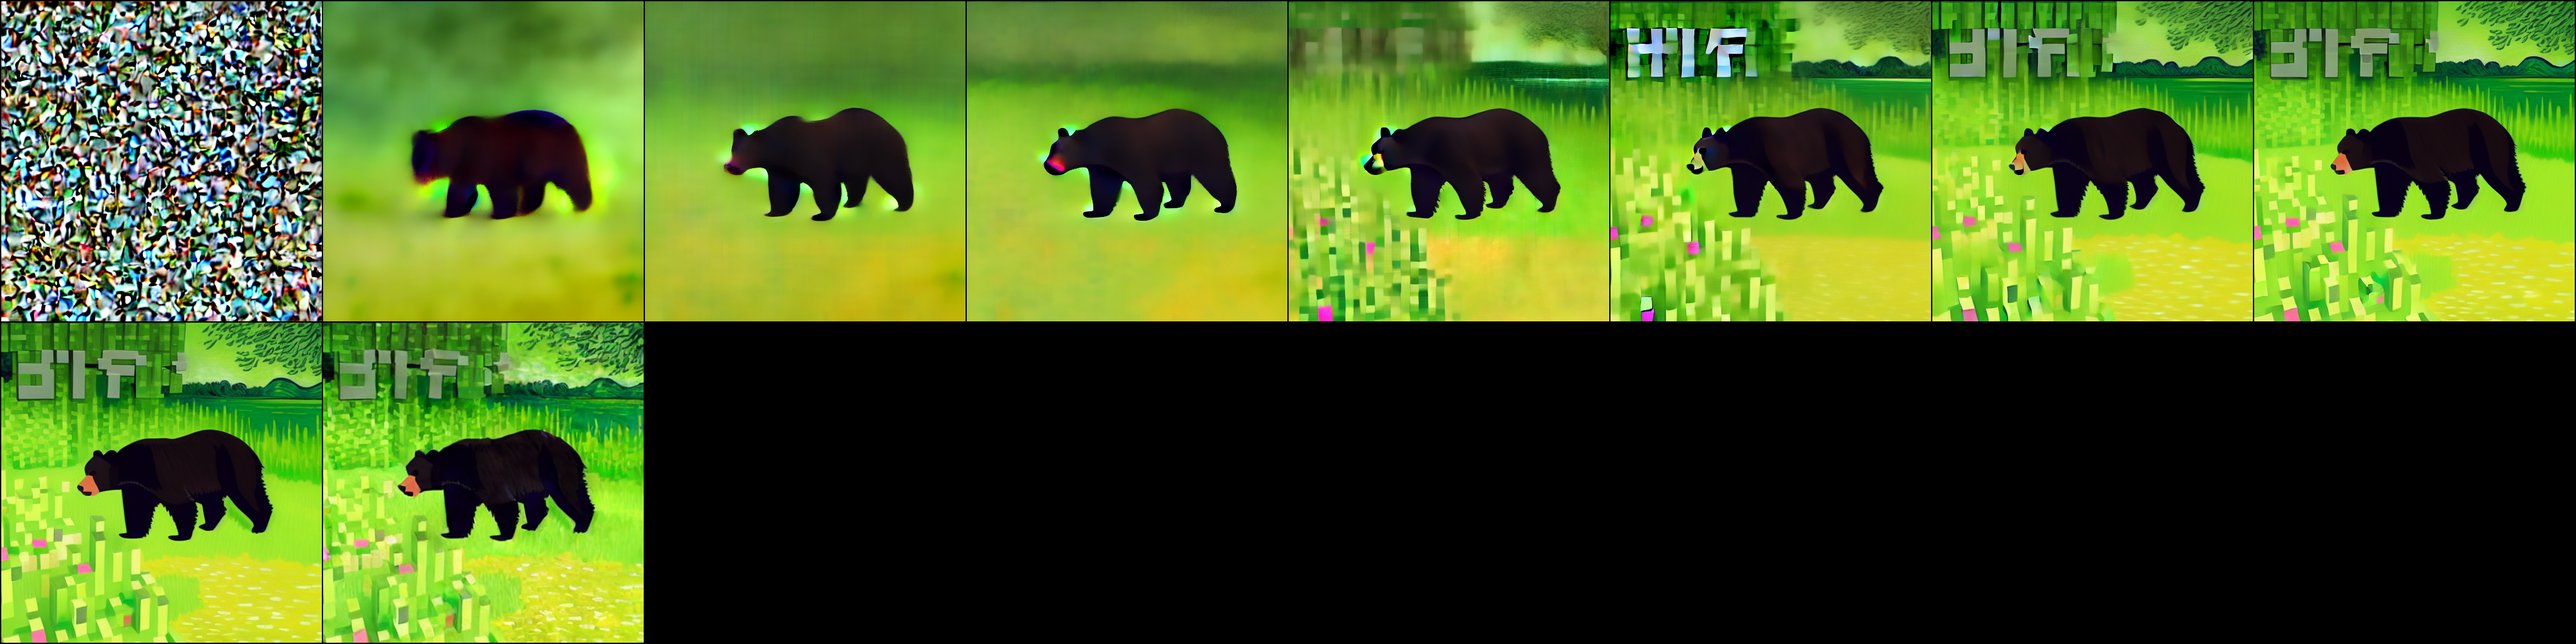
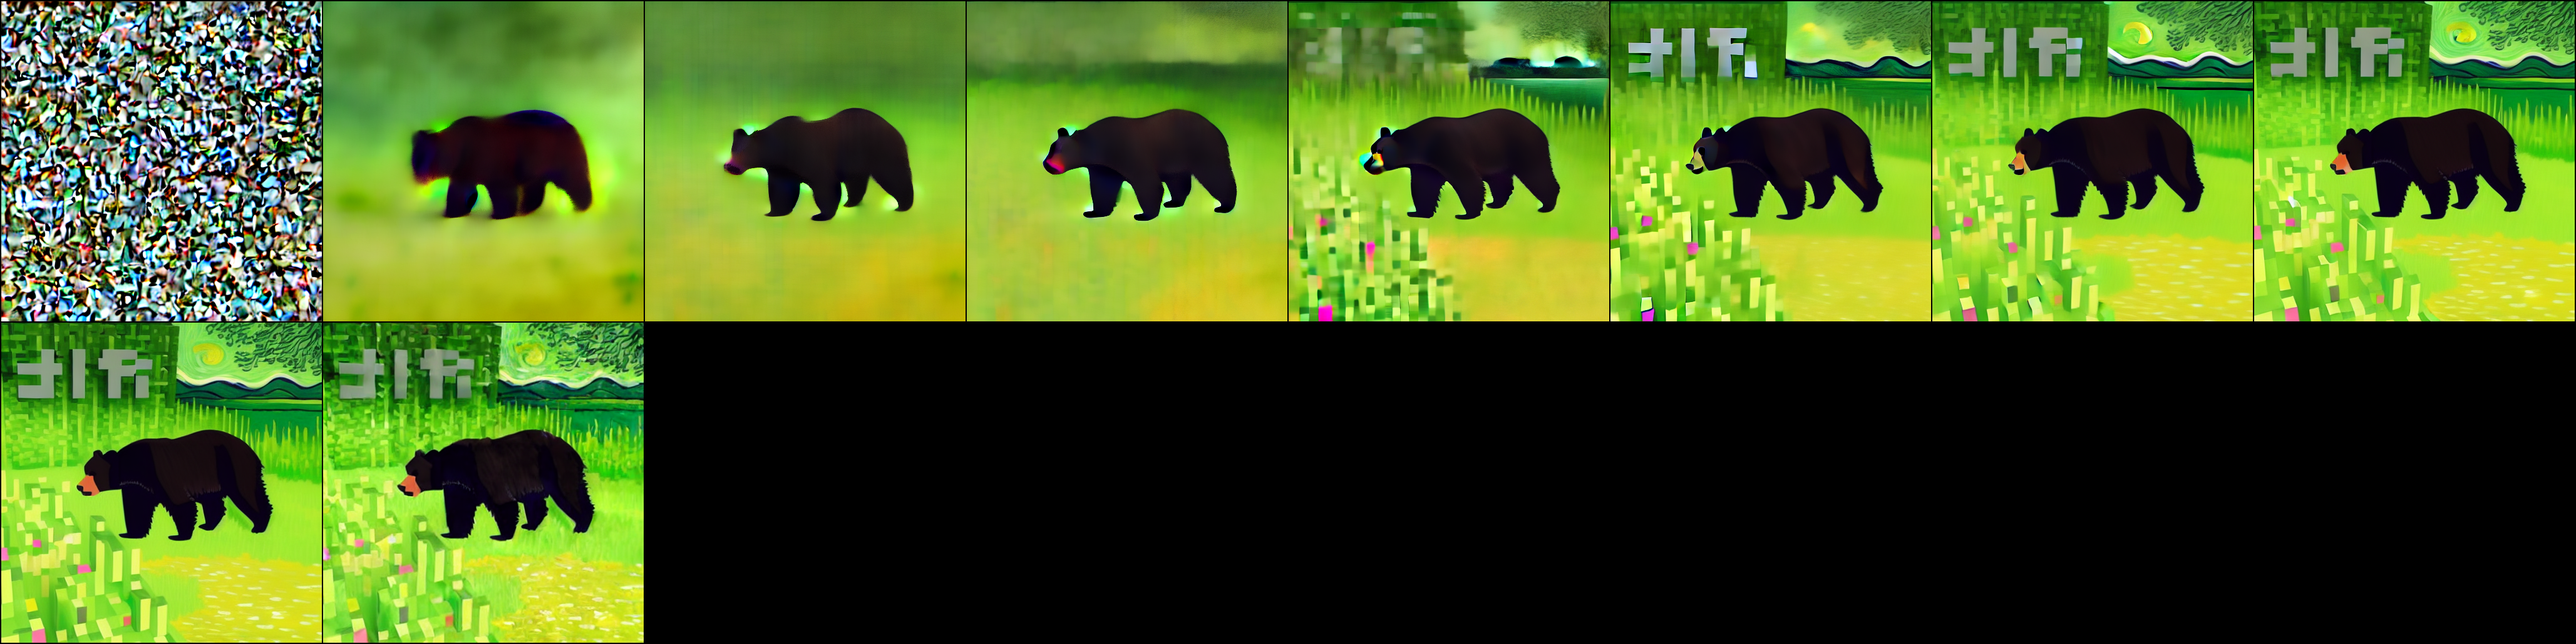
add correct evaluator

diff --git a/evaluation/gram.py b/evaluation/gram.py
@@ -1,0 +1,87 @@
+import torch
+import torchvision.models as models
+import torchvision.transforms as transforms
+from PIL import Image
+import os
+import glob
+
+vgg = models.vgg19(pretrained=True).features.eval()
+
+transform = transforms.Compose([
+    transforms.Resize((224, 224)),
+    transforms.ToTensor(),
+    transforms.Normalize(mean=[0.485, 0.456, 0.406], std=[0.229, 0.224, 0.225])
+])
+
+def gram_matrix(features):
+    """ Compute the Gram matrix of feature maps """
+    b, c, h, w = features.shape
+    features = features.reshape(b, c, h * w)
+    gram = torch.bmm(features, features.transpose(1, 2))
+    return gram.div(c * h * w)
+
+def get_vgg_gram(image, layers=['5', '10', '19', '28']):
+    """ Extracts Gram matrices from selected layers of VGG """
+    features = []
+    x = image
+    for name, layer in vgg._modules.items():
+        x = layer(x)
+        if name in layers:  # Use selected layers
+            features.append(gram_matrix(x))
+    return features  # List of Gram matrices
+
+def gram_similarity(image1, image2):
+    """
+    Computes Gram matrix similarity between a single image and a batch of images
+    """
+    gram1 = get_vgg_gram(image1)
+    
+    batch_size = image2.size(0)
+    similarities = []
+    
+    for i in range(batch_size):
+        ref_img = image2[i:i+1]
+        gram2 = get_vgg_gram(ref_img)
+        
+        sim = sum(torch.norm(g1 - g2) for g1, g2 in zip(gram1, gram2))
+        similarities.append(sim)
+    
+    return torch.tensor(similarities, device=image1.device)
+
+def compute_style_similarity(generated_img, style_name):
+    """
+    Compute average gram similarity between generated image and all images in style folder
+    """
+    # Path to the style folder (same level as the file)
+    style_folder = os.path.join(os.path.dirname(os.path.abspath(__file__)), "gram_styles", style_name)
+    print(f'style folder {style_folder}')
+    
+    # Get all image files from the folder
+    image_extensions = ['jpg', 'jpeg', 'png']
+    image_paths = []
+    for ext in image_extensions:
+        image_paths.extend(glob.glob(os.path.join(style_folder, f'*.{ext}')))
+
+    # Load reference images in a batch
+    ref_images = []
+    for img_path in image_paths:
+        img = Image.open(img_path).convert('RGB')
+        ref_img = transform(img)
+        print(ref_img.shape)
+        ref_images.append(ref_img)
+
+    # Stack images to create a batch (B, C, H, W)
+    ref_images_batch = torch.stack(ref_images).to(generated_img.device)
+
+    # Compute similarity for each reference image in the batch
+    sim_batch = gram_similarity(generated_img.unsqueeze(0), ref_images_batch)
+    print(f'Sim batch calculated ! {sim_batch.shape}')
+
+    # Compute the average similarity
+    avg_similarity = sim_batch.mean().item()
+    
+    # Print individual similarities
+    for idx, sim in enumerate(sim_batch):
+        print(f"Similarity with {os.path.basename(image_paths[idx])}: {sim.item()}")
+
+    return avg_similarity

diff --git a/evaluation/translate_text.py b/evaluation/translate_text.py
@@ -3,8 +3,8 @@ import torch
 from tqdm import tqdm
 import pandas as pd
 from model.energy.clean_clip import DirectionalCLIP
-from .utils import save_image, calculate_ssim, calculate_psnr
-
+from .utils import save_image, calculate_ssim, calculate_psnr, calculate_lpips, total_variation_center_width, extract_style_from_description
+from .gram import compute_style_similarity
 
 class Evaluator(object):
 
@@ -57,6 +57,8 @@ class Evaluator(object):
             'psnr': [],
             'ssim': [],
             'l2': [],
+            'style_right' : [],
+            'style_left' : [],
         }
         idx = 0
         for original_img, img in tqdm(images):
@@ -109,6 +111,18 @@ class Evaluator(object):
                 ((img - original_img) ** 2).sum(2).sum(1).sum(0)
             ).item()
             all_l2 += l2
+            
+            lpips = calculate_lpips(img, original_img)
+            
+            total_variation_original = total_variation_center_width(original_img)
+            total_variation_generated = total_variation_center_width(img)
+            
+            style_left = extract_style_from_description(decode_text_left)
+            style_right = extract_style_from_description(decode_text_right)
+            print(f'Style left {style_left}, style right {style_right}')
+            
+            style_left_score = compute_style_similarity(img, style_left)
+            style_right_score = compute_style_similarity(img, style_right)
 
             print('clip_score: {}'.format(clip_score))
             print('dclip_score: {}'.format(dclip_score))
@@ -119,6 +133,12 @@ class Evaluator(object):
             print('psnr: {}'.format(psnr))
             print('ssim: {}'.format(ssim))
             print('l2: {}'.format(l2))
+            print('lpips: {}'.format(lpips))
+            print('total_variation_original: {}'.format(total_variation_original))
+            print('total_variation_generated: {}'.format(total_variation_generated))
+            print('delta_total_variation: {}'.format(total_variation_generated - total_variation_original))
+            print(f'Style left {style_left} score {style_left_score}')
+            print(f'Style right {style_right} score {style_right_score}')
             print('-' * 50)
 
             sample_results['encode_text'].append(encode_text)
@@ -133,6 +153,8 @@ class Evaluator(object):
             sample_results['psnr'].append(psnr)
             sample_results['ssim'].append(ssim)
             sample_results['l2'].append(l2)
+            sample_results['style_right'].append(style_right)
+            sample_results['style_left'].append(style_left)
 
             assert img.shape == original_img.shape
             save_image(os.path.join(f_gen, '{}.png'.format(idx)), img)

diff --git a/evaluation/utils.py b/evaluation/utils.py
@@ -2,6 +2,10 @@ import numpy as np
 import torch
 import cv2
 from torchvision import utils
+import lpips
+import torch.nn.functional as F
+from torchvision.models import inception_v3
+from scipy.linalg import sqrtm
 
 
 def save_image(image_path, image):
@@ -65,3 +69,77 @@ def calculate_psnr(img1, img2):
     if mse == 0:
         return 100
     return 10 * torch.log10(1 / mse)
+
+
+def calculate_lpips(img1, img2):
+    device = torch.device('cuda' if torch.cuda.is_available() else 'cpu')
+    
+    if isinstance(img1, np.ndarray):
+        img1 = torch.from_numpy(img1)
+    if isinstance(img2, np.ndarray):
+        img2 = torch.from_numpy(img2)
+    
+    if img1.ndim == 2:
+        img1 = img1.unsqueeze(0).repeat(3, 1, 1)
+    elif img1.ndim == 3:
+        if img1.shape[0] != 3 and img1.shape[2] == 3:
+            img1 = img1.permute(2, 0, 1)
+    if img2.ndim == 2:
+        img2 = img2.unsqueeze(0).repeat(3, 1, 1)
+    elif img2.ndim == 3:
+        if img2.shape[0] != 3 and img2.shape[2] == 3:
+            img2 = img2.permute(2, 0, 1)
+    
+    img1 = img1.unsqueeze(0).float()
+    img2 = img2.unsqueeze(0).float()
+    
+    def normalize_img(tensor):
+        if tensor.max() > 1:
+            return tensor / 127.5 - 1.0
+        else:
+            return tensor * 2 - 1.0
+    
+    img1 = normalize_img(img1)
+    img2 = normalize_img(img2)
+    
+    loss_fn = lpips.LPIPS(net='vgg').to(device)
+    img1 = img1.to(device)
+    img2 = img2.to(device)
+    
+    with torch.no_grad():
+        dist = loss_fn(img1, img2)
+    
+    return dist.item()
+
+def total_variation_center_width(image):
+    image = image.float()
+    channels, height, width = image.shape
+
+    start = int(width/2 - 0.1 * width)
+    end = int(width/2 + 0.1 * width)
+    
+    sub_image = image[:, :, start:end]
+    
+    diff_h = sub_image[:, :, 1:] - sub_image[:, :, :-1]
+    diff_v = sub_image[:, 1:, :] - sub_image[:, :-1, :]
+    
+    tv_h = torch.sqrt(diff_h ** 2 + 1e-6)
+    tv_v = torch.sqrt(diff_v ** 2 + 1e-6)
+    
+    tv = torch.sum(tv_h) + torch.sum(tv_v)
+    return tv.item()
+
+def extract_style_from_description(description):
+
+    description_lower = description.lower()
+    
+    if "mosaic" in description_lower:
+        return "MOSAIC"
+    elif "minecraft" in description_lower:
+        return "MINECRAFT"
+    elif "andy warhol" in description_lower or "warhol" in description_lower:
+        return "ANDY WARHOL POP"
+    elif "van gogh" in description_lower or "gogh" in description_lower:
+        return "VAN GOGH"
+    else:
+        return "UNKNOWN"
